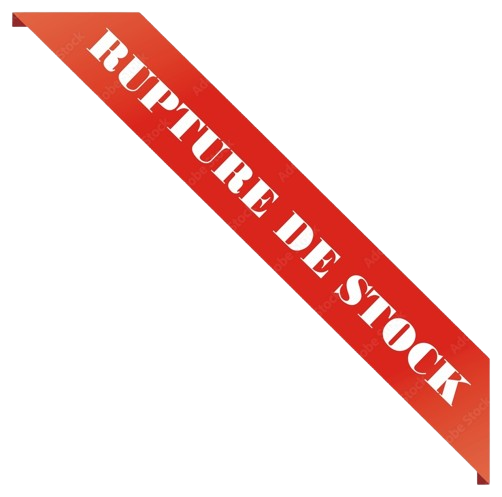
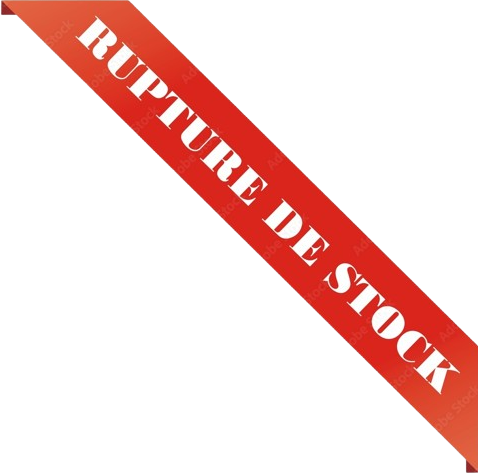
feat affichage bandeau no stock

diff --git a/resources/views/components/card.blade.php b/resources/views/components/card.blade.php
@@ -3,8 +3,22 @@
 
 
 <a class="row h-95" href="{{ route('catalog.show', ['id' => $product->id]) }}">
-    <img class="img-fluid object-fit-contain" style="height:350px" src="{{ $product->img_url }}"
-        alt="image de couverture de {{ $product->title }} ({{ $product->author }})">
+
+    {{-- -----------------affichage de la couverture ou du bandeau rupture de stock------------------ --}}
+
+    @if($product->stock > 0)
+        <img class="img-fluid object-fit-contain" style="height:350px" src="{{ $product->img_url }}"
+            alt="image de couverture de {{ $product->title }} ({{ $product->author }})">
+
+    @else
+        <img class="img-fluid object-fit-contain" style="height:350px; filter:blur(2px);" src="{{ $product->img_url }}"
+            alt="image de couverture de {{ $product->title }} ({{ $product->author }})">
+        <div class="position-absolute object-fit-content p-0">
+            <img class="img-fluid" src="{{ asset('images/noStock.png') }}" alt="Bandeau no stock" title="Stock épuisé">
+        </div>
+    @endif
+
+
 </a>
 
 <div class="row">
@@ -14,17 +28,20 @@
 <div class="row">
     <p class="card-text">{{ $product->author }}</p>
 </div>
+
+
 @if($product->tags->isNotEmpty())
-<div class="row">
-    <p class="card-text">Tag(s) : {{ $product->tags->pluck('name')->join(', ') }}</p>
-</div>
+    <div class="row">
+        <p class="card-text fst-italic fw-weight">{{ $product->tags->pluck('name')->join(', ') }}</p>
+    </div>
+@endif
 
 <div class="row">
     <p class="col card-text  fw-bold">{{ number_format($product->price, 2, ',', ' ') }} €</p>
 </div>
 
 
-{{--  --}}
+{{-- -----------------affichage du bouton wish------------------ --}}
 
 @php
     $wish = Wish::where('product_id', '=', $product->id)->where('user_id', '=', 1)->first();
@@ -42,6 +59,7 @@
     </a>
 @endif
 
+{{-- -----------------affichage du bouton panier------------------ --}}
 
 <a class="position-absolute bottom-0 end-0 object-fit-content btn btn-light p-1"
     href="{{ route('cart.add', ['product_id' => $product->id, 'quantity' => "1"]) }}" style="width: 2.5em;">

diff --git a/resources/views/homepage.blade.php b/resources/views/homepage.blade.php
@@ -81,11 +81,9 @@
 
         <div class="row justify-content-center mt-5">
             @foreach ($products as $product)
-                @if ($product->stock > 0)
                     <div class="card hover-card col-12 col-sm-5 col-md-5 col-lg-2 text-center mx-2 mb-3">
                         <x-card :product="$product" />
                     </div>
-                @endif
             @endforeach
         </div>
     </div>
